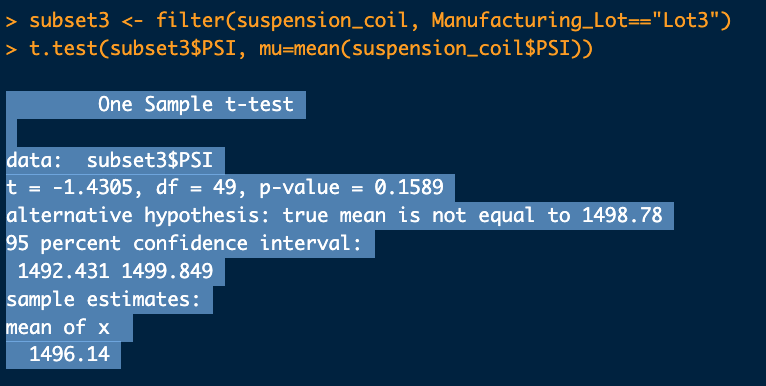
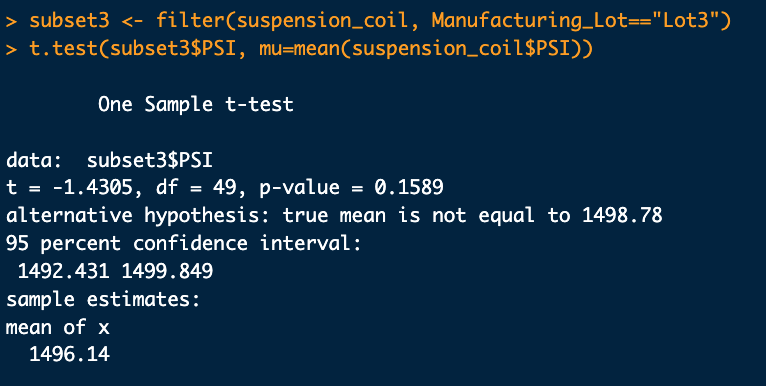
fix formatting in README

Changed region(s): [[0.0, 0.2176, 0.9008, 0.9637]]

diff --git a/README.md b/README.md
@@ -55,16 +55,20 @@ The p-value of 0.5678 is above the significance level of 0.05. Therefore, the tw
 ### Subsets of Data by Manufacturing Lot 
 For each of three manufacturing lots, one-sample t-test were performed to determined whether the PSI for that lot was statistically different from the population mean of 1,500 PSI. Results are as follows.
 
-Lot 1:
+#### Lot 1
+
 ![screenshot of t-test results for manufacturing lot 1](https://github.com/larabjork/mechacar_statistical_analysis/blob/main/images/t_test_lot_1.png)
 
 The p-value for the Lot 1 t-test was 1.568 x 10<sup>-11</sup>, which is smaller than the significance level of 0.05. Therefore, the means for Lot 1 and the population are statistically different and there is sufficient evidence to reject the null hypothesis.
 
-Lot 2:
+#### Lot 2
+
 ![screenshot of t-test results for manufacturing lot 2](https://github.com/larabjork/mechacar_statistical_analysis/blob/main/images/t_test_lot_2.png)
+
 The p-value for the Lot 2 t-test was 0.0005911, which is smaller than the significance level of 0.05. Therefore, the means for Lot 2 and the population are statistically different and there is sufficient evidence to reject the null hypothesis.
 
-Lot 3:
+#### Lot 3
+
 ![screenshot of t-test results for manufacturing lot 3](https://github.com/larabjork/mechacar_statistical_analysis/blob/main/images/t_test_lot_3.png)
 
 The p-value for the Lot 3 t-test was 0.1589, which is larger than the significance level of 0.05. Therefore, the means for Lot 3 and the population are statistically similar and the null hypothesis is not rejected. 
